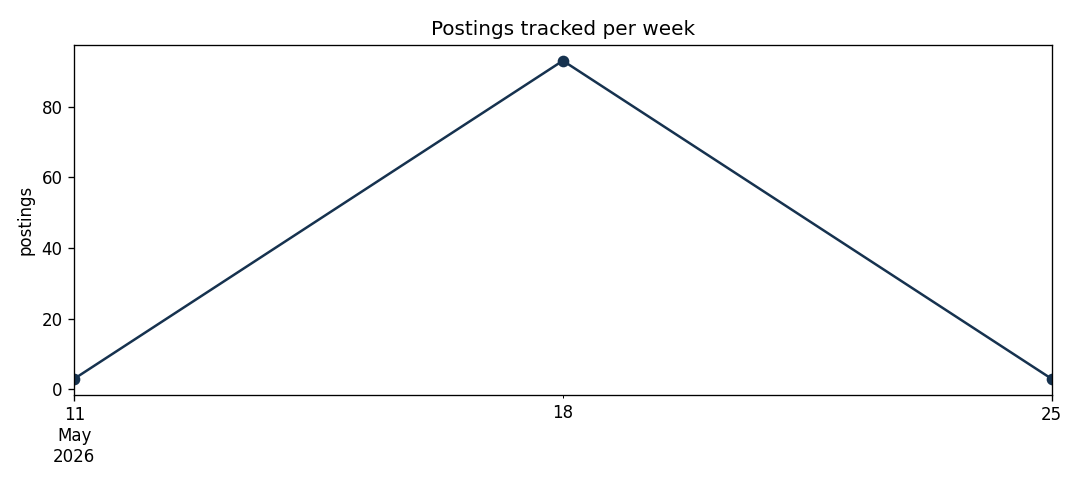
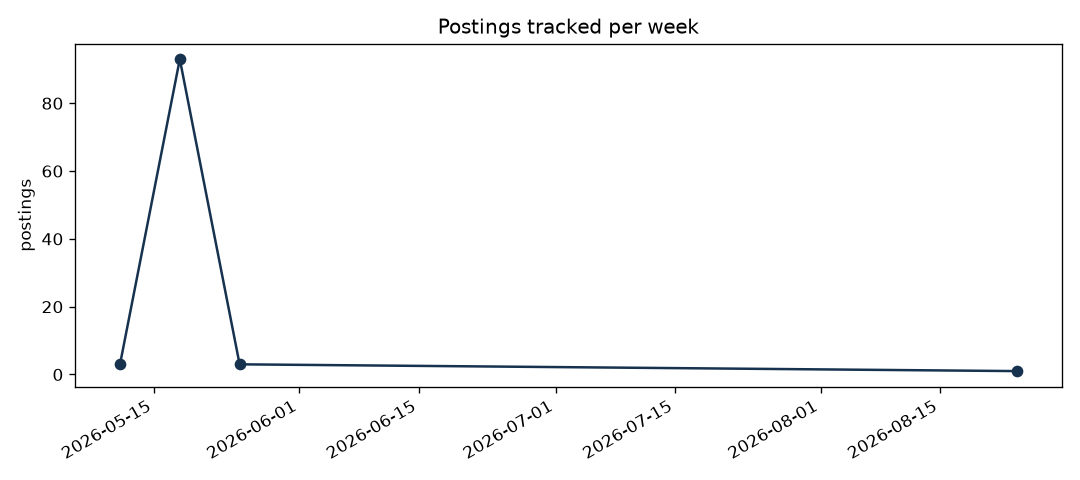
Daily data update

diff --git a/README.md b/README.md
@@ -13,13 +13,13 @@ reporting end to end.
 ## Dashboard
 
 <!-- dashboard:start -->
-*Last updated: 2026-05-26 13:11 UTC*
+*Last updated: 2026-08-26 13:53 UTC*
 
 | | |
 |---|---|
-| Postings tracked | 99 |
-| Companies | 90 |
-| New since last run | 99 |
+| Postings tracked | 100 |
+| Companies | 91 |
+| New since last run | 1 |
 | Data/ML-related share | 16% |
 | Median advertised max salary | $200,000 |
 
